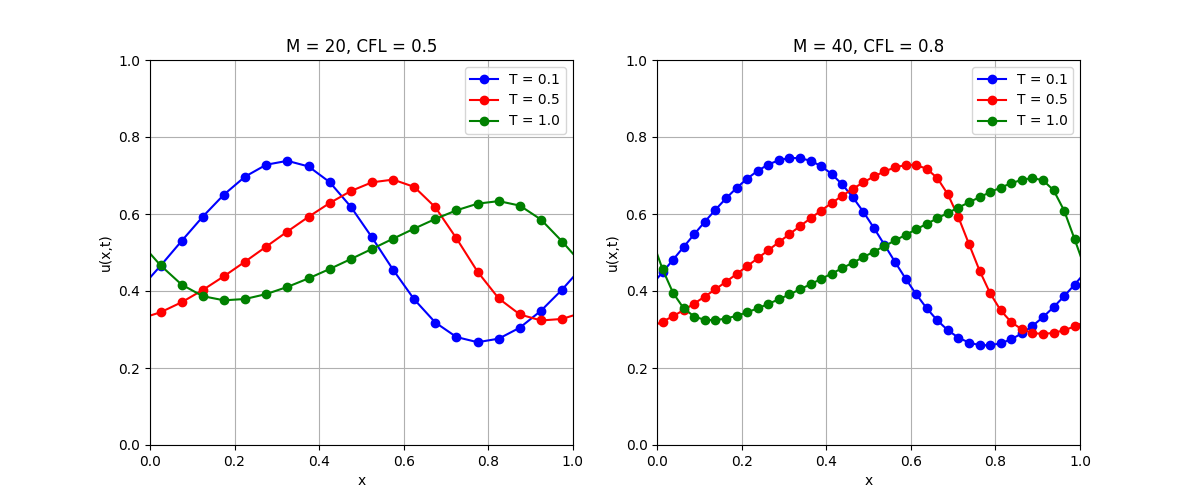
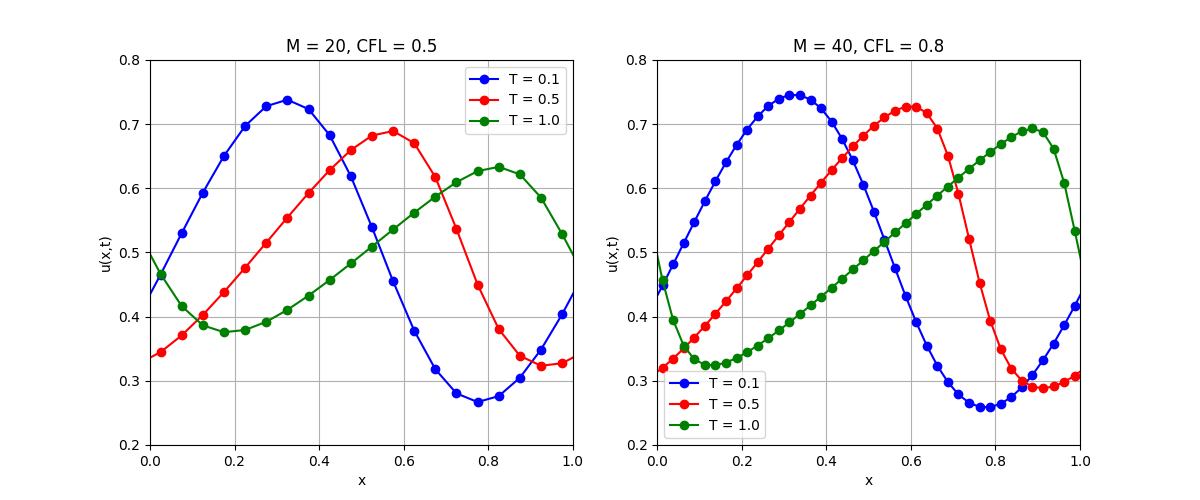
sync

diff --git a/PHW2/Mac_Cormac_Burger_flux.py b/PHW2/Mac_Cormac_Burger_flux.py
@@ -1,34 +1,22 @@
 # Author : Bo Yuan You 
 # Date 2021/11/30
 # CFD program homework 2 
-# To solve Burger eq with two step RK method (flux)
-
+# To solve Burger eq with Mac Cormack Scheme MUSCL
 
 import numpy as np
 import matplotlib.pyplot as plt
 import time
-from RK2_Burger import RK_Burger
+from RK_Burger_flux import RK_Flux_Burger_eq
 
-class RK_Flux_Burger_eq(RK_Burger):
+class Mac_Cormac_Flux_Burger(RK_Flux_Burger_eq):
     def __init__(self, CFL, M, alpha=0.75, k=0, limiter=False) -> None:
-        super().__init__(CFL, M, alpha=alpha)
-        self.kl = 1-k
-        self.kr = 1+k
-        self.limiter=limiter
-
-    def minmoid(self,a,b,c)->float:
-        if a>0 and b>0 and c>0:
-            return min(a,b,c)
-        elif a<0 and b<0 and c<0:
-            return max(a,b,c)
-        else:
-            return 0.0
-
-    def solver(self, t) -> None:
-        print(f'Using Runge-Kutta solver: t = {t:.2f}')
-
+        super().__init__(CFL, M, alpha=alpha, k=k, limiter=limiter)
+        self.f = np.zeros(M+2)
+        self.f1 = np.zeros(M+2)
+    def solver(self, t) -> None: 
+        print(f'Mac Cormac solver: t = {t:.3f}')
         if self.limiter:
-            for i in range(self.M+1):
+            for i in range(1,self.M+1):
                 du_left = self.u0[i+1] - self.u0[i]
                 du_mid = self.u0[i+2] - self.u0[i+1]
                 du_right = self.u0[i+3] - self.u0[i+2]
@@ -37,16 +25,18 @@ class RK_Flux_Burger_eq(RK_Burger):
                 ul = self.u0[i+1] + self.minmoid(du_left, du_mid, so_left)
                 ur = self.u0[i+2] + self.minmoid(du_mid, du_right, so_right)
                 self.f[i] = 0.5*(ul**2/2 + ur**2/2 - self.alpha*(ur - ul))
-
+            
         else:
             for i in range(self.M+1):
                 ul = self.u0[i+1] + 0.25*(self.kl*(self.u0[i+1] - self.u0[i]) + self.kr*(self.u0[i+2] - self.u0[i+1]))
                 ur = self.u0[i+2] + 0.25*(self.kl*(self.u0[i+2] - self.u0[i+1]) + self.kr*(self.u0[i+3] - self.u0[i+2]))
                 self.f[i] = 0.5*(ul**2/2 + ur**2/2 - self.alpha*(ur - ul))
                 
+        self.f[-1] = self.f[1]
+        self.f[0] = self.f[-2] 
 
         for i in range(self.M):
-            self.u1[i+2] = self.u0[i+2] - self.DT/self.DX*(self.f[i+1] - self.f[i])
+            self.u1[i+2] = self.u0[i+2] - self.DT/self.DX*(self.f[i+2] - self.f[i+1])
         self.call_BC(self.u1)
 
         if self.limiter:
@@ -65,33 +55,19 @@ class RK_Flux_Burger_eq(RK_Burger):
                 ur = self.u1[i+2] + 0.25*(self.kl*(self.u1[i+2] - self.u1[i+1]) + self.kr*(self.u1[i+3] - self.u1[i+2]))
                 self.f1[i] = 0.5*(ul**2/2 + ur**2/2 - self.alpha*(ur - ul))
             
+        self.f1[-1] = self.f1[1]
+        self.f1[0] = self.f1[-2] 
+
         for i in range(self.M):
             self.u2[i+2] = self.u1[i+2] - self.DT/self.DX*(self.f1[i+1] - self.f1[i])
 
         self.u = 0.5 * (self.u2 + self.u0).copy()
 
-    def PDE_solver(self) -> None:
-        self.u01 = np.zeros(self.M+4)
-        self.u05 = np.zeros(self.M+4)
-        t = 0
-        while t < 1.0:
-            t = round(t + self.DT, 3)
-            self.u0 = self.u.copy()
-            self.solver(t)
-            self.call_BC(self.u)
-            if (t == 0.1) or (t == 0.5):
-                if t == 0.1:
-                    self.u01 = self.u.copy()
-                    print('u01 build')
-                else:
-                    self.u05  = self.u.copy()
-                    print('u05 build')
-
 def main():
     start = time.time()
-    M20 = RK_Flux_Burger_eq(0.8, 40, k=1/3, limiter=False)
+    M20 = Mac_Cormac_Flux_Burger(0.8, 40, k=1/3, limiter=False)
     M20.full_process()
-    M40 = RK_Flux_Burger_eq(0.8, 40, k=1/3, limiter=True)
+    M40 = Mac_Cormac_Flux_Burger(0.8, 40, k=1/3, limiter=True)
     M40.full_process()
     end = time.time() - start 
     print('Time pass : ', end)
@@ -108,7 +84,7 @@ def main():
     plt.ylabel('u(x,t)')
     plt.grid(True)
     plt.legend()
-    plt.axis([0, 1, 0.2, 0.8])
+    plt.axis('auto')
     
 
     plt.subplot(1,2,2)
@@ -120,12 +96,10 @@ def main():
     plt.ylabel('u(x,t)')
     plt.grid(True)
     plt.legend()
-    plt.axis([0, 1, 0.2, 0.8])
+    plt.axis('auto')
 
-    plt.savefig("images/Runge_Kutta_burger_flux.png")  
+    plt.savefig("images/Mac_Cormac_Flux_Burger.png")  
     plt.show()
 
 if __name__ == '__main__':
     main()
-
-    

diff --git a/PHW2/RK2_Burger.py b/PHW2/RK2_Burger.py
@@ -9,29 +9,28 @@ import time
 from Euler_explicit_Burger_eq import Euler_scheme_Burger_eq
 
 class RK_Burger(Euler_scheme_Burger_eq):
-    def __init__(self, CFL, M, alpha = 0.75) -> None:
-        super().__init__(CFL, M)
-        self.alpha = alpha
-        self.u1 = np.zeros(M+5)
-        self.u2 = np.zeros(M+5)
-        self.f1 = np.zeros(M+4)
+    def __init__(self, CFL, M, alpha=0.75) -> None:
+        super().__init__(CFL, M, alpha=alpha)
+        self.u1 = np.zeros(M+4)
+        self.u2 = np.zeros(M+4)
+        self.f1 = np.zeros(M+1)
 
     def solver(self, t) -> None:
         print(f'Using Runge-Kutta solver: t = {t:.2f}')
-        for i in range(self.M+4):
-            self.f[i] = 0.5*(self.u[i]**2/2 + self.u[i+1]**2/2 - self.alpha*(self.u[i+1] - self.u[i]))
+        for i in range(self.M+1):
+            self.f[i] = 0.5*(self.u0[i+1]**2/2 + self.u0[i+2]**2/2 - self.alpha*(self.u0[i+2] - self.u0[i+1]))
 
-        for i in range(self.M + 1):
-            self.u1[i+2] = self.u0[i+2] - self.DT/self.DX*(self.f[i+2] - self.f[i+1])
+        for i in range(self.M):
+            self.u1[i+2] = self.u0[i+2] - self.DT/self.DX*(self.f[i+1] - self.f[i])
         self.call_BC(self.u1)
 
-        for i in range(self.M+4):
-            self.f1[i] = 0.5*(self.u1[i]**2/2 + self.u1[i+1]**2/2 - self.alpha*(self.u1[i+1] - self.u1[i]))
+        for i in range(self.M+1):
+            self.f1[i] = 0.5*(self.u1[i+2]**2/2 + self.u1[i+1]**2/2 - self.alpha*(self.u1[i+2] - self.u1[i+1]))
         
-        for i in range(self.M + 1):
-            self.u2[i+2] = self.u1[i+2] - self.DT/self.DX*(self.f1[i+2] - self.f1[i+1])
+        for i in range(self.M):
+            self.u2[i+2] = self.u1[i+2] - self.DT/self.DX*(self.f1[i+1] - self.f1[i])
 
-        self.u = 0.5 * (self.u2 + self.u).copy()
+        self.u = 0.5 * (self.u2 + self.u0).copy()
 
 def main():
     start = time.time()
@@ -54,7 +53,7 @@ def main():
     plt.ylabel('u(x,t)')
     plt.grid(True)
     plt.legend()
-    plt.axis([0, 1, 0, 1])
+    plt.axis([0, 1, 0.2, 0.8])
     
 
     plt.subplot(1,2,2)
@@ -66,7 +65,7 @@ def main():
     plt.ylabel('u(x,t)')
     plt.grid(True)
     plt.legend()
-    plt.axis([0, 1, 0, 1])
+    plt.axis([0, 1, 0.2, 0.8])
 
     plt.savefig("images/Runge_Kutta_burger.png")  
     plt.show()

diff --git a/PHW2/Runge_Kutta_scheme.py b/PHW2/Runge_Kutta_scheme.py
@@ -11,26 +11,26 @@ from euler_scheme import Euler_explicit_scheme
 class Runge_Kutta_two_steps(Euler_explicit_scheme):
     def __init__(self, CFL, M) -> None:
         super().__init__(CFL, M)
-        self.u1 = np.zeros(M+5)
-        self.u2 = np.zeros(M+5)
-        self.f1 = np.zeros(M+4)
+        self.u1 = np.zeros(M+4)
+        self.u2 = np.zeros(M+4)
+        self.f1 = np.zeros(M+1)
 
     def solver(self, t) -> None:
         print(f'Using Runge-Kutta solver: t = {t:.2f}')
-        for i in range(self.M+4):
-            self.f[i] = 0.5 * (self.u[i] + self.u[i+1])
+        for i in range(self.M+1):
+            self.f[i] = 0.5 * (self.u0[i+1] + self.u0[i+2])
 
-        for i in range(self.M + 1):
-            self.u1[i+2] = self.u0[i+2] - self.DT/self.DX*(self.f[i+2] - self.f[i+1])
+        for i in range(self.M):
+            self.u1[i+2] = self.u0[i+2] - self.DT/self.DX*(self.f[i+1] - self.f[i])
         self.call_BC(self.u1)
 
-        for i in range(self.M+4):
-            self.f1[i] = 0.5 * (self.u1[i] + self.u1[i+1])
+        for i in range(self.M+1):
+            self.f1[i] = 0.5 * (self.u1[i+1] + self.u1[i+2])
         
-        for i in range(self.M + 1):
-            self.u2[i+2] = self.u1[i+2] - self.DT/self.DX*(self.f1[i+2] - self.f1[i+1])
+        for i in range(self.M):
+            self.u2[i+2] = self.u1[i+2] - self.DT/self.DX*(self.f1[i+1] - self.f1[i])
 
-        self.u = 0.5 * (self.u2 + self.u).copy()
+        self.u = 0.5 * (self.u2 + self.u0).copy()
 
 def main():
     start = time.time()

diff --git a/PHW2/euler_scheme.py b/PHW2/euler_scheme.py
@@ -13,27 +13,27 @@ class Euler_explicit_scheme():
         self.M = M        
         self.DX = 1/M
         self.DT = round(CFL * self.DX, 3)
-        self.Xgrid = np.linspace(0-2.5*self.DX, 1+1.5*self.DX, self.M+5)
-        self.u = np.zeros(M+5)
-        self.u0 = np.zeros(M+5)
-        self.f = np.zeros(M+4)
+        self.Xgrid = np.linspace(-0.5*self.DX, 1+2.5*self.DX, self.M+4)
+        self.u = np.zeros(M+4)
+        self.u0 = np.zeros(M+4)
+        self.f = np.zeros(M+1)
 
     def init_data(self) -> None:
         for i in range(self.M+1):
             self.u[i+2] = np.sin(2*np.pi*self.Xgrid[i+2])
 
     def call_BC(self, arr) -> None:
-        arr[0] = arr[self.M]
-        arr[1] = arr[self.M+1]
-        arr[self.M+3] = arr[3]
-        arr[self.M+4] = arr[4]
+        arr[0] = arr[-4]
+        arr[1] = arr[-3]
+        arr[-2] = arr[2]
+        arr[-1] = arr[3]
 
     def solver(self, t) -> None:
         print(f'Using Euler explicit solver : t = {t:.2f}')
-        for i in range(self.M+4):
-            self.f[i] = 0.5 * (self.u[i] + self.u[i+1])
         for i in range(self.M+1):
-            self.u[i+2] = self.u0[i+2] - (self.DT/self.DX*(self.f[i+2] - self.f[i+1]))
+            self.f[i] = 0.5 * (self.u0[i+1] + self.u0[i+2])
+        for i in range(self.M):
+            self.u[i+2] = self.u0[i+2] - (self.DT/self.DX*(self.f[i+1] - self.f[i]))
 
     def PDE_solver(self) -> None:
         t = 0

diff --git a/PHW2/Euler_explicit_Burger_eq.py b/PHW2/Euler_explicit_Burger_eq.py
@@ -20,11 +20,11 @@ class Euler_scheme_Burger_eq(Euler_explicit_scheme):
 
     def solver(self, t) -> None:
         print(f'Using Euler explicit solver : t = {t:.3f}')
-        for i in range(self.M+4):
-            self.f[i] = 0.5*(self.u0[i]**2/2 + self.u0[i+1]**2/2 - self.alpha*(self.u0[i+1] - self.u0[i]))
-
         for i in range(self.M+1):
-            self.u[i+2] = self.u0[i+2] - self.DT/self.DX*(self.f[i+2] - self.f[i+1])
+            self.f[i] = 0.5*(self.u0[i+1]**2/2 + self.u0[i+2]**2/2 - self.alpha*(self.u0[i+2] - self.u0[i+1]))
+
+        for i in range(self.M):
+            self.u[i+2] = self.u0[i+2] - self.DT/self.DX*(self.f[i+1] - self.f[i])
         
     def PDE_solver(self) -> None:
         self.u01 = np.zeros(self.M+5)
@@ -66,7 +66,7 @@ def main():
     plt.ylabel('u(x,t)')
     plt.grid(True)
     plt.legend()
-    plt.axis([0, 1, 0, 1])
+    plt.axis([0, 1, 0.2, 0.8])
     
 
     plt.subplot(1,2,2)
@@ -78,7 +78,7 @@ def main():
     plt.ylabel('u(x,t)')
     plt.grid(True)
     plt.legend()
-    plt.axis([0, 1, 0, 1])
+    plt.axis([0, 1, 0.2, 0.8])
 
     plt.savefig("images/Euler_scheme_burger.png")  
     plt.show()
